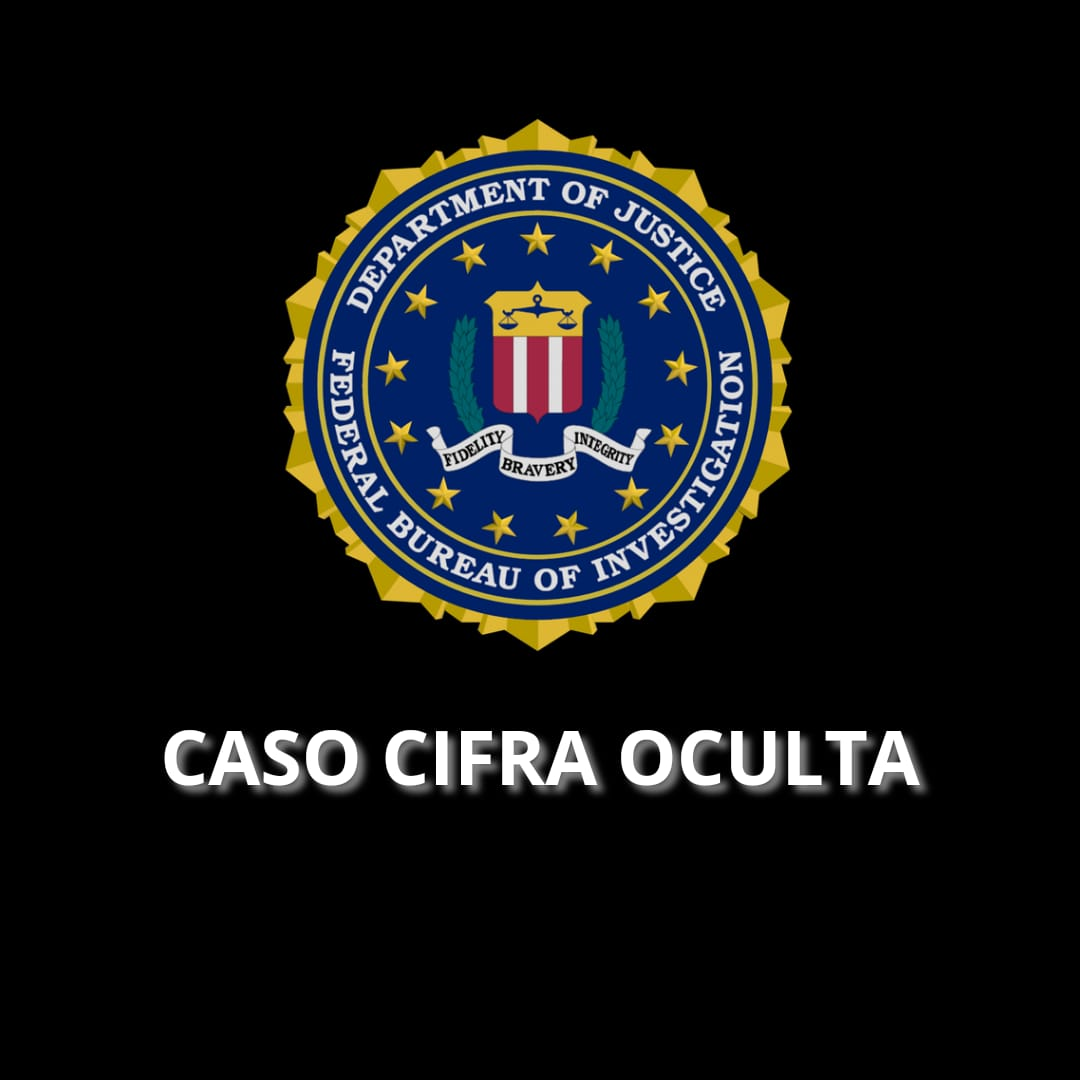
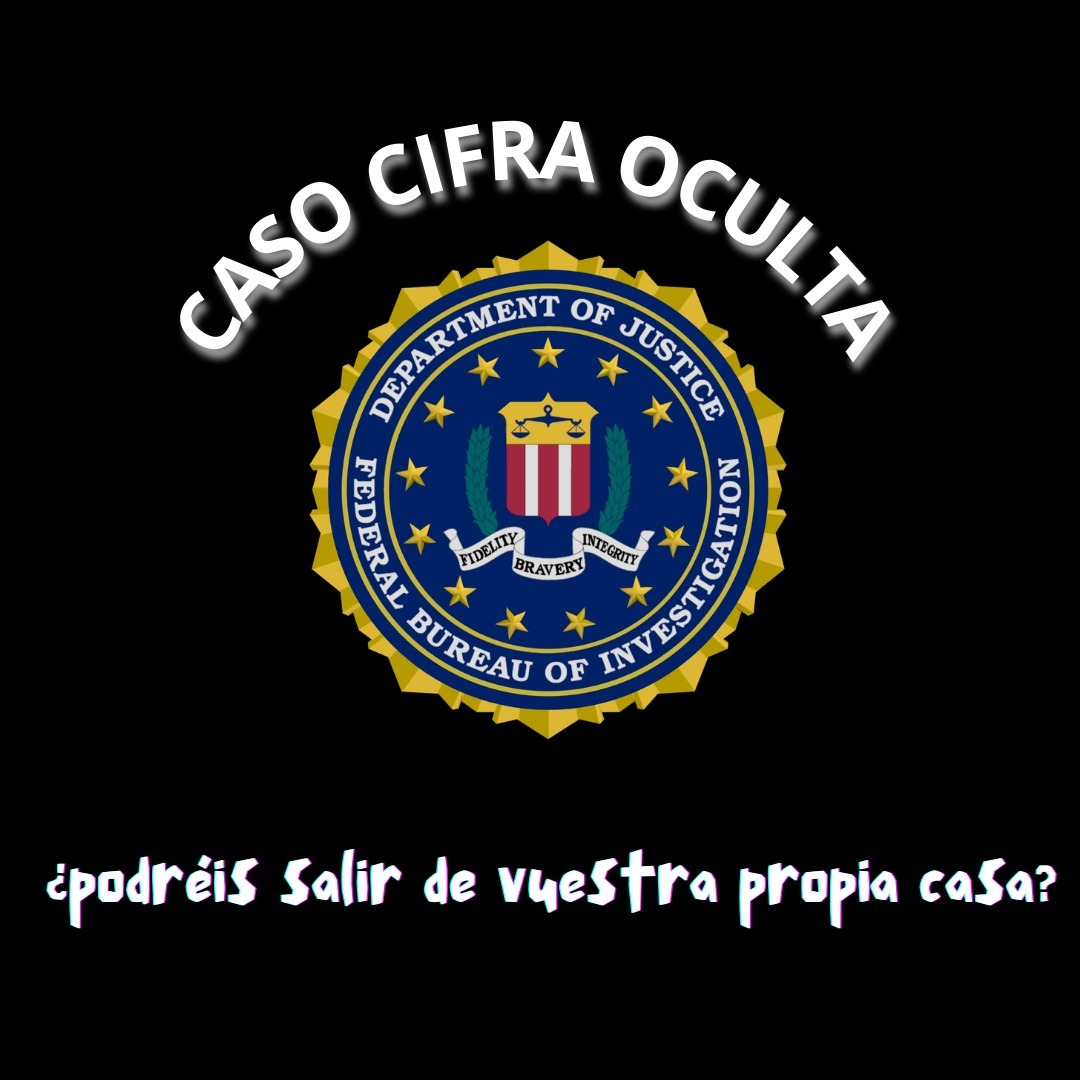
Cambios Shushi 03/07/2024
Nuevo juego emociones
Cambiar foto juego adultos
Cambios menores

Changed region(s): [[0.1528, 0.0917, 0.8556, 0.7333], [0.0306, 0.7639, 0.9778, 0.8556]]

diff --git a/index.html b/index.html
@@ -54,14 +54,19 @@
           <h2>NIÑOS</h2>
           <div id="tematica">
             <div id="robo">
-              <!--<p class="nameTematica">El robo</p>-->
               <p class="desc">
                 Un ladrón ha robado tu regalo de cumpleaños... Hay una manera de
                 recuperarlo, superando todos sus enigmas. Lo conseguiréis?
               </p>
             </div>
+            <div id="emociones">
+              <p class="desc">
+                ¡Atención, emociones! El centro de control está en caos y Riley
+                necesita vuestra ayuda. ¿Estáis listos para salvar el día?
+              </p>
+            </div>
             <div id="personalizada">
-              <p class="nameTematica">Temática personalizada</p>
+              <p class="nameTematica">Personaliza tu temática</p>
               <p class="desc">
                 Cuéntanos qué temática encaja en tus gustos. Sea la que sea la
                 hacemos realidad!
@@ -76,12 +81,12 @@
               </p>
             </div>
           </div>
-          <div class="cuadrados c2">
+          <!-- <div class="cuadrados c2">
             <p>Esconde su regalo de la forma más original!</p>
-          </div>
+          </div> -->
 
           <div class="textoOferta">
-            <p id="precioNinyo" class="p1">13€/niño</p>
+            <p id="precioNinyo" class="p1">Desde 13€/niño</p>
             <p>
               Aforo entre 10 y 25 niños (en caso de ser menos de 10 niños se
               abonara el importe mínimo para 10 niños)
@@ -92,18 +97,20 @@
         <div class="grownupsBlock">
           <h2>ADULTOS</h2>
           <div class="cuadrados">
-            <!-- <p>· Despedidas de soltera</p>
-            <p>· Escape room express romántico</p>
-            <p>· Babyshower</p>
-            <p>· Otros eventos</p> -->
-            <img
-              id="casoCifraOculta"
-              src="/assets/caso_cifra_oculta.jpg"
-              alt="Caso cifra oculta"
-            />
+            <div id="tematica">
+              <div id="cifra_oculta">
+                <p class="desc">
+                  "Próximamente se abrirá una nueva central de FBI en la ciudad
+                  de Alicante. Realizamos este comunicado en busca de agentes
+                  con altas habilidades. Interesados aplicar en la oferta y nos
+                  pondremos en contacto. Atentamente, FBI (Sucursal de
+                  Alicante)"
+                </p>
+              </div>
+            </div>
           </div>
           <p>Pasa tu evento al siguiente nivel</p>
-          <p>¡Si pruebas, repites!</p>
+          <p>¡Enciérralos a todos y poneos a prueba!</p>
 
           <div class="textoOferta">
             <p id="precioAdulto" class="p1">15€/persona</p>
@@ -137,7 +144,7 @@
           </div>
 
           <div class="asteriscoPrecios">
-            <p>* Plus de desplazamiento 20€</p>
+            <p>* Plus de desplazamiento 20€/30€</p>
             <p>* Temática personalizada 50€</p>
           </div>
         </div>
@@ -207,16 +214,6 @@
           <input type="radio" name="select" id="img-tab-5" />
           <label
             for="img-tab-5"
-            style="background-image: url(assets/galeria/poster3-play.png)"
-          ></label>
-          <video controls poster="assets/galeria/poster3.png">
-            <source src="assets/galeria/video3.mp4" type="video/mp4" />
-            Tu navegador no puede reproducir el video
-          </video>
-
-          <input type="radio" name="select" id="img-tab-6" />
-          <label
-            for="img-tab-6"
             style="background-image: url(assets/galeria/poster4-play.png)"
           ></label>
           <video controls poster="assets/galeria/poster4.png">
@@ -224,9 +221,9 @@
             Tu navegador no puede reproducir el video
           </video>
 
-          <input type="radio" name="select" id="img-tab-7" />
+          <input type="radio" name="select" id="img-tab-6" />
           <label
-            for="img-tab-7"
+            for="img-tab-6"
             style="background-image: url(assets/galeria/poster5-play.png)"
           ></label>
           <video controls poster="assets/galeria/poster5.png">
@@ -264,9 +261,9 @@
 
           <div class="mensaje m-right">
             <p>
-              Se utilizarán solo 2 estancias (una grande y otra pequeña). No se
-              utilizará ningún mobiliario ni se tocará nada de la casa, nosotros
-              llevamos todo el material.
+              Se usará el espacio que tú prefieras, desde una habitación hasta
+              todas las que quieras involucrar. En interiores, exteriores o
+              combínalos.
             </p>
           </div>
 
@@ -284,6 +281,18 @@
 
           <div class="mensaje m-right">
             <p>Todo tipo de eventos y todas las edades (a partir de 6 años)</p>
+          </div>
+
+          <div class="mensaje m-left">
+            <p>En qué se diferencia el juego para niños del de adultos?</p>
+          </div>
+
+          <div class="mensaje m-right">
+            <p>
+              El objetivo del juego infantil es encontrar el regalo del
+              cumpleañero, en ningún caso se les encierra. El juego para adultos
+              tiene como objetivo salir de la casa en la que estais encerrados.
+            </p>
           </div>
         </div>
 

diff --git a/style.css b/style.css
@@ -228,11 +228,27 @@ nav a {
   background-position: center;
   background-size: cover;
   color: white;
-  height: 20vw;
+  height: 30vw;
 }
 
 #robo:hover {
-  background: linear-gradient(rgba(250, 250, 250, 0.6), rgba(250, 250, 250, 0.6)), url("assets/elRoboMal.png");
+  background: linear-gradient(rgba(250, 250, 250, 0.8), rgba(250, 250, 250, 0.8)), url("assets/elRoboMal.png");
+  background-repeat: no-repeat;
+  background-position: center;
+  background-size: cover;
+}
+
+#emociones {
+  background-image: url(assets/emociones.png);
+  background-repeat: no-repeat;
+  background-position: center;
+  background-size: cover;
+  color: white;
+  height: 30vw;
+}
+
+#emociones:hover {
+  background: linear-gradient(rgba(250, 250, 250, 0.75), rgba(250, 250, 250, 0.75)), url("assets/emociones.png");
   background-repeat: no-repeat;
   background-position: center;
   background-size: cover;
@@ -243,7 +259,7 @@ nav a {
   background-repeat: no-repeat;
   background-position: center;
   background-size: cover;
-  height: 15vw;
+  height: 20vw;
 }
 
 #personalizada:hover {
@@ -310,6 +326,24 @@ nav a {
 
 #casoCifraOculta {
   max-width: 100%;
+}
+
+#cifra_oculta {
+  background-color: #000000;
+  background-image: url(assets/caso_cifra_oculta.jpg);
+  background-repeat: no-repeat;
+  background-position: center;
+  background-size: contain;
+  color: white;
+  height: 55vw;
+}
+
+#cifra_oculta:hover {
+  background: linear-gradient(rgba(250, 250, 250, 0.8), rgba(250, 250, 250, 0.8)), url("assets/caso_cifra_oculta.jpg");
+  background-color: #000;
+  background-repeat: no-repeat;
+  background-position: center;
+  background-size: contain;
 }
 
 /*------------------OFERTA------------------*/
@@ -387,6 +421,7 @@ nav a {
   justify-content: space-around;
   align-items: center;
   gap: 3vw;
+  margin-bottom: 4vw;
 }
 
 .textoOferta p {
@@ -425,6 +460,9 @@ nav a {
 
 .asteriscoPrecios {
   margin: 5vw 5vw;
+  display: flex;
+  flex-direction: column;
+  gap: 3vw;
 }
 
 .asteriscoPrecios p {
